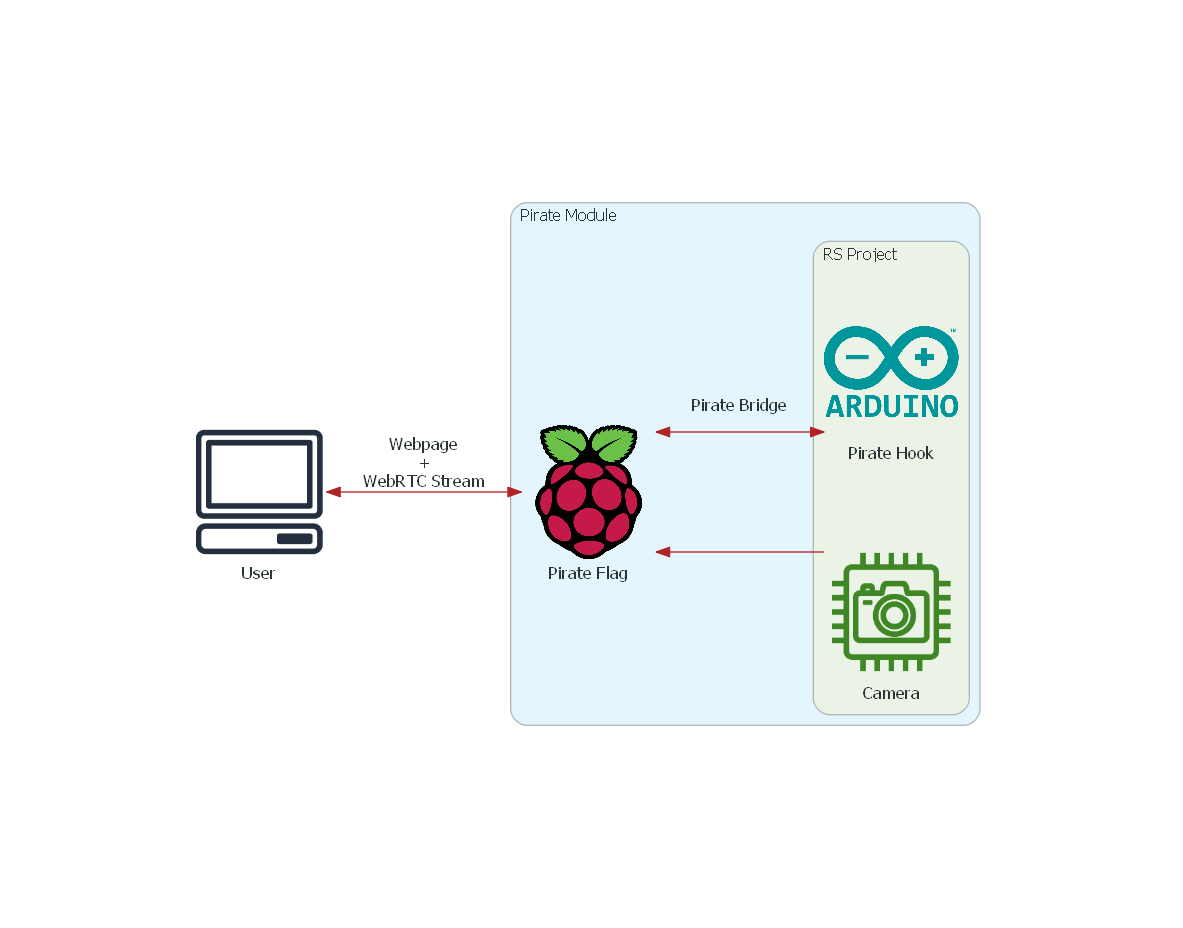
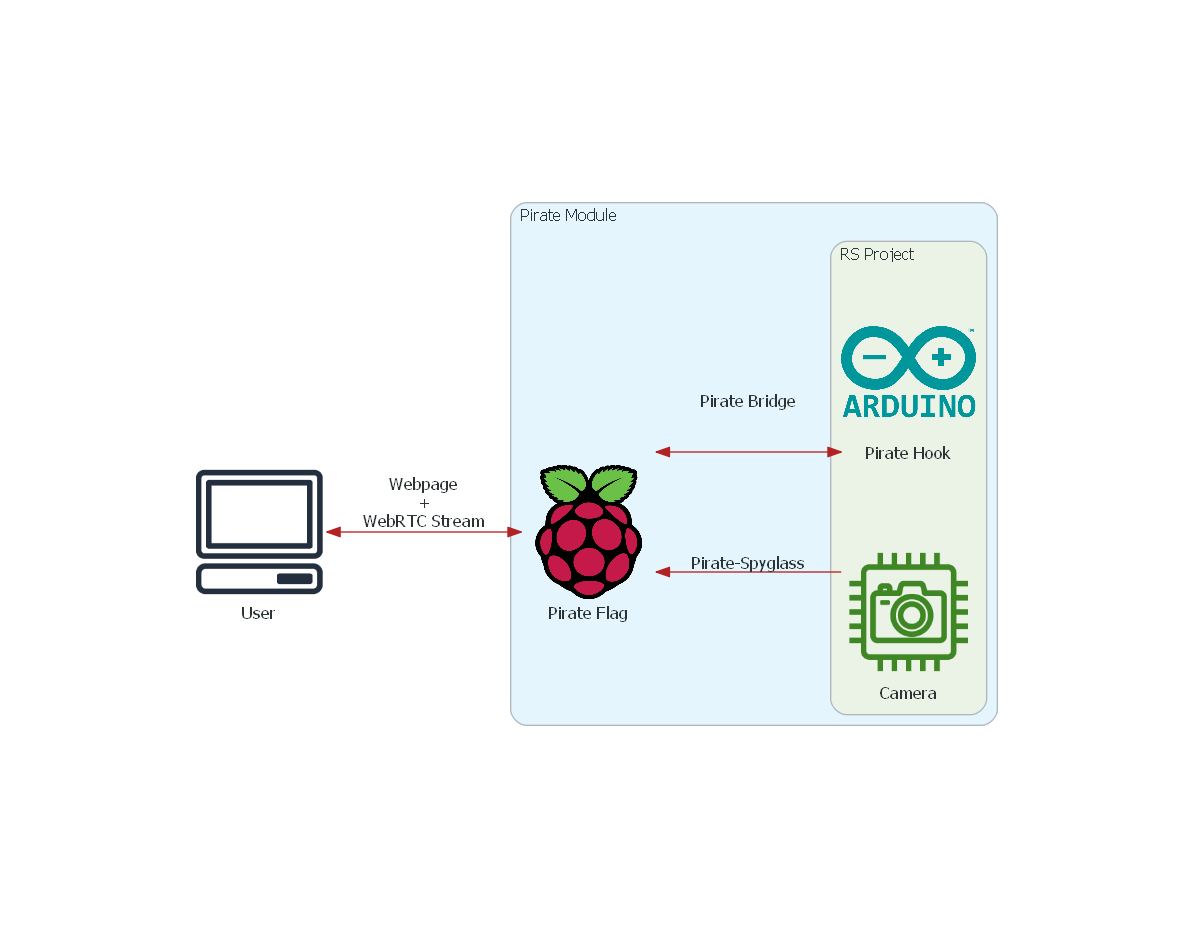
Spyglass added to Diagram overview and architecture

Changed region(s): [[0.1522, 0.2188, 0.8521, 0.7812], [0.6999, 0.25, 0.7608, 0.2812]]

diff --git a/createDiagram/create_diagrams.py b/createDiagram/create_diagrams.py
@@ -26,7 +26,7 @@ with Diagram(filename="pirate_architecture", show=False):
                 nodeJs = NodeJS("Pirate-Bridge")
 
             with Cluster("Docker2"):
-                Janus = Custom("Janus", "./customImages/janus-logo.png")
+                Janus = Custom("Pirate-Spyglass", "./customImages/janus-logo.png")
 
             with Cluster("Docker3"):
                 Gstreamer = Custom("Gstreamer", "./customImages/gstreamer-logo.png")
@@ -70,7 +70,7 @@ with Diagram(filename="pirate_overview", show=False):
     pi << Edge(label="Pirate Bridge",color="firebrick") >> arduino
 
 
-    pi << Edge(color="firebrick") << piCamera
+    pi << Edge(label="Pirate-Spyglass",color="firebrick") << piCamera
 
     client = Client("User")
     client << Edge(label="Webpage\n + \nWebRTC Stream",color="firebrick") >> pi
